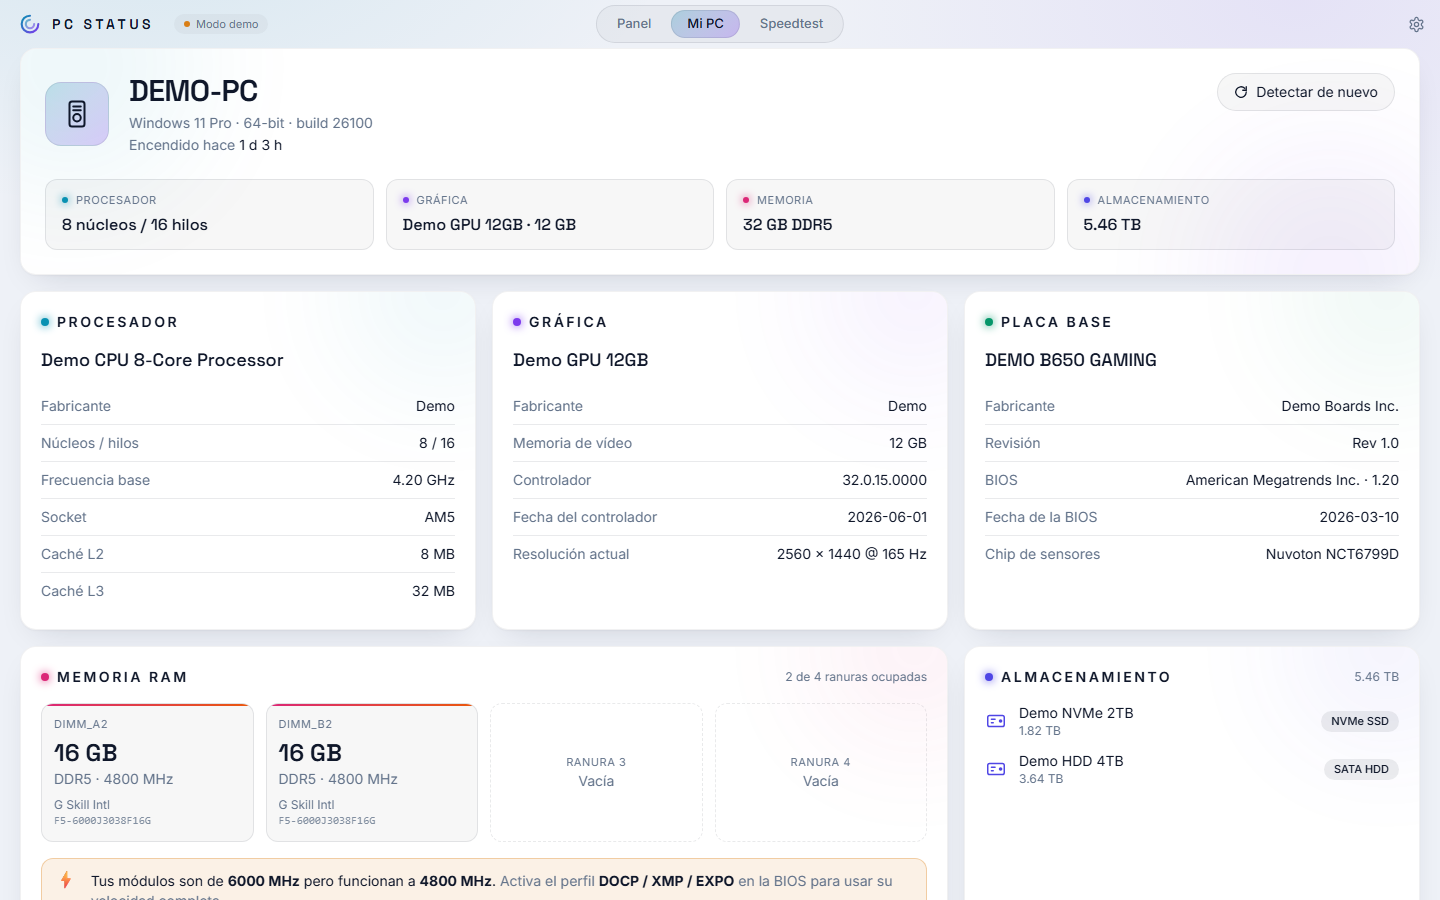
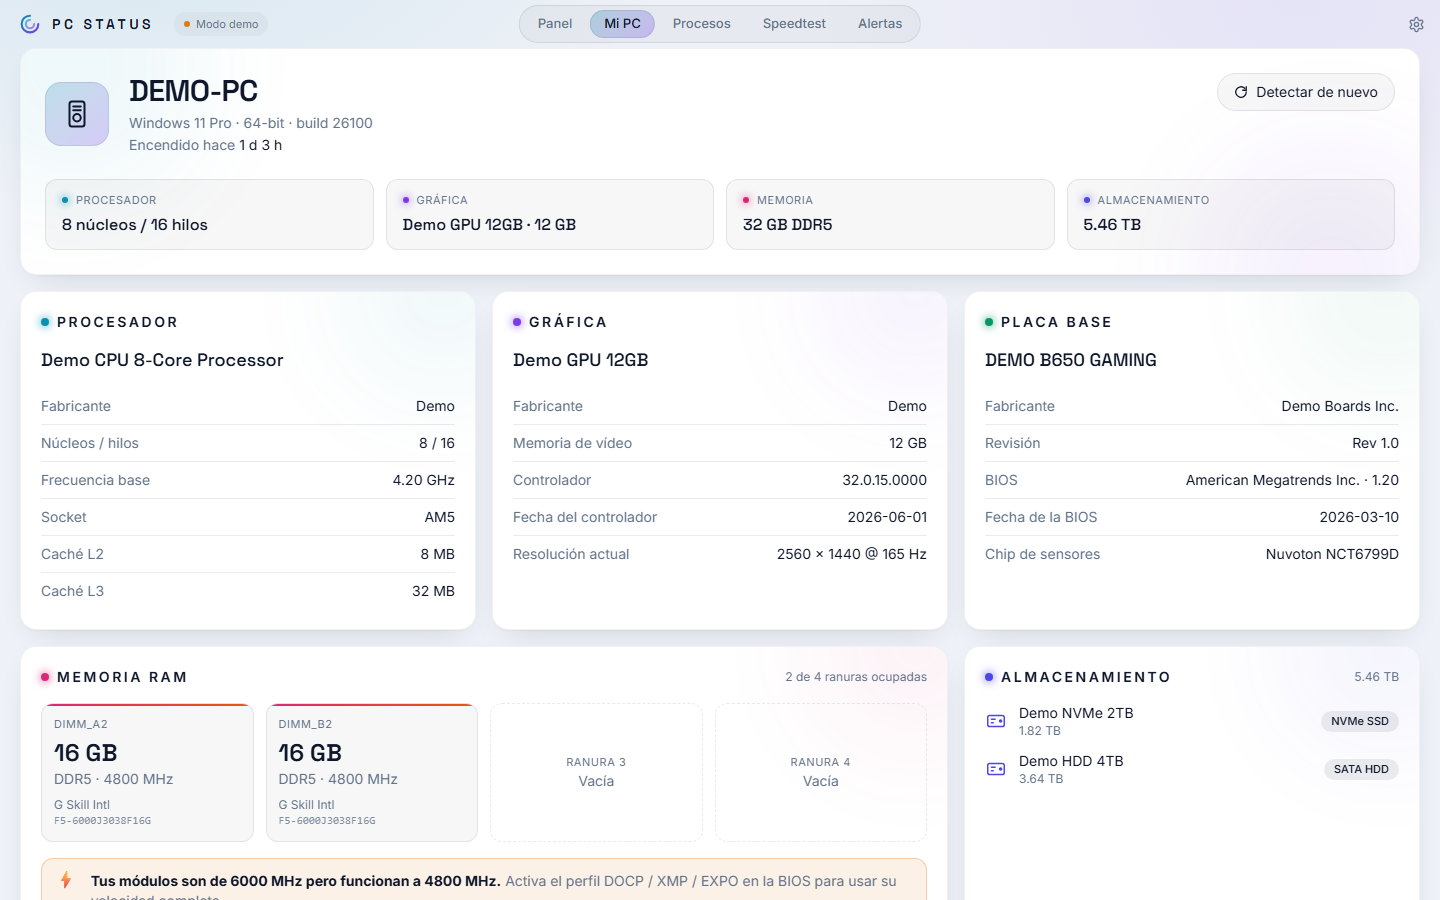
Versión 0.2.0: README con Procesos, Alertas e idiomas y capturas nuevas

Changed region(s): [[0.0625, 0.9644, 0.625, 0.9956], [0.375, 0.0, 0.625, 0.0622]]

diff --git a/README.md b/README.md
@@ -1,6 +1,6 @@
 # PC Status
 
-**Monitor de hardware para Windows con diseño propio**, inspirado en programas como NZXT CAM pero totalmente personalizable: medidores animados en tiempo real, inventario completo del PC, prueba de velocidad de internet y 6 temas con estilos distintos.
+**Monitor de hardware para Windows con diseño propio**, inspirado en programas como NZXT CAM pero totalmente personalizable: medidores animados en tiempo real, inventario completo del PC, procesos que se pueden finalizar, alertas de temperatura con notificaciones, prueba de velocidad de internet, 6 temas con estilos distintos y 9 idiomas.
 
 Hecho con **Tauri 2 (Rust)**, **React + Tailwind + Motion** y un pequeño proceso en **.NET con LibreHardwareMonitor** para leer los sensores.
 
@@ -36,7 +36,8 @@ No necesitas instalar nada más: el instalador incluye todo (la app, el lector d
 | | |
 |---|---|
 | [![Panel](docs/screenshots/panel.png)](#panel-monitoreo-en-tiempo-real) **📊 Panel**: CPU, GPU, RAM, núcleos, red, ventiladores y discos en tiempo real, con medidores animados y gráficas de 60 s. | [![Mi PC](docs/screenshots/mi-pc.png)](#mi-pc-inventario-de-hardware) **🖥 Mi PC**: inventario completo del hardware: procesador, gráfica, placa y BIOS, RAM por ranura, discos, pantallas, red y audio. |
-| [![Speedtest](docs/screenshots/speedtest.png)](#speedtest-velocidad-de-internet) **🚀 Speedtest**: ping, jitter, descarga y subida con velocímetro, menú de tipo y duración, valoración e historial. | [![Ajustes](docs/screenshots/ajustes.png)](#ajustes-y-temas) **🎨 Temas**: 6 estilos distintos (Neón, Cyberpunk, Minimal, Aurora, Terminal y Claro), con brillo ajustable y opción sin animaciones. |
+| [![Procesos](docs/screenshots/procesos.png)](#procesos-qué-consume-recursos) **⚙ Procesos**: qué aplicaciones consumen CPU, RAM y disco, con buscador y botón para finalizarlas. | [![Alertas](docs/screenshots/alertas.png)](#alertas-de-temperatura) **🔔 Alertas**: notificación de Windows si la CPU, la GPU o un disco se calientan demasiado, con historial y punto rojo en las nuevas. |
+| [![Speedtest](docs/screenshots/speedtest.png)](#speedtest-velocidad-de-internet) **🚀 Speedtest**: ping, jitter, descarga y subida con velocímetro, menú de tipo y duración, valoración e historial. | [![Ajustes](docs/screenshots/ajustes.png)](#ajustes-temas-e-idiomas) **🎨 Temas e idiomas**: 6 estilos distintos y 9 idiomas, con brillo ajustable y opción sin animaciones. |
 
 ---
 
@@ -46,8 +47,10 @@ No necesitas instalar nada más: el instalador incluye todo (la app, el lector d
 - [Funciones](#funciones)
   - [Panel: monitoreo en tiempo real](#panel-monitoreo-en-tiempo-real)
   - [Mi PC: inventario de hardware](#mi-pc-inventario-de-hardware)
+  - [Procesos: qué consume recursos](#procesos-qué-consume-recursos)
+  - [Alertas de temperatura](#alertas-de-temperatura)
   - [Speedtest: velocidad de internet](#speedtest-velocidad-de-internet)
-  - [Ajustes y temas](#ajustes-y-temas)
+  - [Ajustes, temas e idiomas](#ajustes-temas-e-idiomas)
 - [Cómo funciona por dentro](#cómo-funciona-por-dentro)
 - [Instalación y uso](#instalación-y-uso)
 - [Personalizar](#personalizar)
@@ -93,6 +96,39 @@ Detecta **todos los componentes** del equipo en menos de un segundo:
 
 El botón **"Detectar de nuevo"** vuelve a escanear el hardware sin reiniciar la app.
 
+### Procesos: qué consume recursos
+
+![Procesos](docs/screenshots/procesos.png)
+
+Lista de **todos los procesos en ejecución**, actualizada cada 2 segundos (solo mientras la pestaña está abierta, para no gastar recursos):
+
+- **CPU** (% del procesador completo), **RAM** y **disco** (lectura + escritura por segundo), con barras para comparar de un vistazo. Los valores altos se marcan en rojo.
+- **Agrupar por aplicación**: junta todos los procesos de una app (por ejemplo las pestañas de Chrome, `×4`) y suma su consumo.
+- **Buscar** por nombre o PID y **ordenar** pulsando el título de cada columna.
+- **Finalizar**: pide confirmación indicando el nombre y cuántos procesos se cerrarán. Si la app está agrupada, cierra todos sus procesos.
+- **Protegidos**: los procesos esenciales de Windows (`svchost`, `csrss`, `explorer`, `dwm`…) y la propia PC Status no se pueden finalizar desde aquí.
+- Con el ratón encima de la tabla **el orden se congela**, para que una fila no se mueva justo cuando vas a pulsar "Finalizar".
+
+### Alertas de temperatura
+
+![Alertas](docs/screenshots/alertas.png)
+
+Si un componente se calienta más de lo recomendado, PC Status:
+
+1. Muestra una **notificación de Windows**, aunque la app esté minimizada.
+2. Guarda la alerta en la pestaña **Alertas** con un **punto rojo** al inicio mientras no la hayas visto. La pestaña también muestra un punto rojo cuando hay alertas nuevas.
+
+| Componente | Límite recomendado | Por qué |
+|---|---|---|
+| Procesador | 85 °C | la mayoría reduce su velocidad cerca de 90–95 °C |
+| Gráfica | 83 °C | límite habitual antes de que baje su frecuencia |
+| Discos | 65 °C | los SSD NVMe se protegen a partir de unos 70 °C |
+
+- Los límites se pueden **ajustar** con deslizadores y restablecer a los recomendados.
+- Una alerta salta cuando la temperatura **supera el límite más de 5 segundos** (no por picos de un instante) y **no se repite** hasta que baja 3 °C del límite.
+- Botón **"Probar notificación"** para comprobar que las notificaciones funcionan.
+- Las notificaciones o las alertas se pueden desactivar.
+
 ### Speedtest: velocidad de internet
 
 ![Speedtest](docs/screenshots/speedtest.png)
@@ -120,7 +156,7 @@ Prueba de velocidad completa con **velocímetro animado** (escala 0–1000 Mb/s 
 
 Los primeros 1,5 s de cada fase no cuentan para el resultado (es el arranque de TCP). La medición la hace **Rust**, no el navegador, para que sea precisa. La prueba sigue aunque cambies de pestaña.
 
-### Ajustes y temas
+### Ajustes, temas e idiomas
 
 El **engranaje ⚙** (arriba a la derecha) abre el panel de ajustes:
 
@@ -133,6 +169,10 @@ Cada tema cambia **colores, esquinas, intensidad del brillo, fuentes, fondo y es
 | **Cyberpunk**: amarillo y magenta, esquinas cortadas, franja lateral de color, fuente Orbitron, rejilla y líneas de CRT ![Cyberpunk](docs/screenshots/tema-cyberpunk.png) | **Terminal**: verde fósforo, todo monoespaciado, sin esquinas redondeadas y con efecto de monitor CRT ![Terminal](docs/screenshots/tema-terminal.png) |
 | **Aurora**: pasteles suaves, muy redondeado, vidrio difuminado y fondo de aurora boreal ![Aurora](docs/screenshots/tema-aurora.png) | **Claro**: fondo claro con tarjetas blancas, para el día ![Claro](docs/screenshots/tema-claro.png) |
 | **Minimal**: plano y gris, sin brillos, con un solo acento azul ![Minimal](docs/screenshots/tema-minimal.png) | **Neón** (por defecto): vidrio oscuro con brillos cian y violeta ![Neón](docs/screenshots/panel.png) |
+
+**Idiomas:** Español, English, Português, Français, Deutsch, Italiano, Русский, 中文 y 日本語. La primera vez se usa el idioma de Windows si está disponible.
+
+![PC Status en inglés con el tema Aurora](docs/screenshots/idioma-ingles.png)
 
 Además:
 - **Intensidad del brillo**: 0–200 % sobre el brillo propio del tema.
@@ -158,13 +198,18 @@ flowchart LR
     subgraph Tauri ["Rust · pc-status.exe"]
         LIB[lib.rs<br/>lanza el sidecar y<br/>reenvía los datos]
         ST[speedtest.rs<br/>prueba de velocidad]
+        PR[processes.rs<br/>procesos sysinfo]
     end
 
     subgraph UI ["React (WebView2)"]
         P[Panel]
         M[Mi PC]
         S[Speedtest]
+        PS[Procesos]
+        AL[Alertas]
     end
+
+    WIN[[Notificaciones<br/>de Windows]]
 
     CF[(Cloudflare<br/>speed.cloudflare.com)]
 
@@ -179,6 +224,9 @@ flowchart LR
     S -- "start_speedtest" --> ST
     ST <--> CF
     ST -- "evento speedtest" --> S
+    PS -- "list / kill_processes" --> PR
+    LIB -- "temperaturas" --> AL
+    AL --> WIN
 ```
 
 **¿Por qué un proceso en .NET?** En Windows, leer la temperatura real de la CPU, los ventiladores y los voltajes de la placa necesita un driver en modo kernel. La librería más completa para eso es [LibreHardwareMonitor](https://github.com/LibreHardwareMonitor/LibreHardwareMonitor) (C#) y no existe un equivalente en Rust. Por eso la app lanza un pequeño ejecutable .NET (*sidecar*) que:
@@ -187,7 +235,7 @@ flowchart LR
 2. Al arrancar (y cuando se le pide por `stdin`) genera el **inventario** usando WMI.
 3. Se cierra solo si la app principal muere (detecta el fin de `stdin`).
 
-El backend en **Rust** lanza ese proceso sin ventana, guarda el último inventario y reenvía todo a la interfaz con eventos de Tauri. La prueba de velocidad se hace directamente en Rust con `reqwest`.
+El backend en **Rust** lanza ese proceso sin ventana, guarda el último inventario y reenvía todo a la interfaz con eventos de Tauri. La prueba de velocidad se hace directamente en Rust con `reqwest`, y la lista de procesos con `sysinfo`. Las alertas se calculan en la interfaz con cada lectura de sensores y se notifican con `tauri-plugin-notification`.
 
 La **interfaz** es React dentro de WebView2: los temas son variables CSS (`--color-*`, `--radius`, `--glow`, `--card-*`, `--app-bg`...) que se cambian en caliente.
 
@@ -231,10 +279,13 @@ Con `npm run dev` la interfaz funciona en cualquier navegador con datos simulado
 
 | Parámetro | Efecto |
 |---|---|
-| `?view=mypc` / `?view=speedtest` | abre esa pestaña |
+| `?view=mypc` / `processes` / `speedtest` / `alerts` | abre esa pestaña |
 | `?theme=cyberpunk` | fuerza un tema sin guardarlo (`neon`, `cyberpunk`, `minimal`, `aurora`, `terminal`, `light`) |
 | `?settings` | abre el panel de ajustes |
 | `?autostart` | lanza un speedtest simulado |
+| `?lang=en` | fuerza un idioma (`es`, `en`, `pt`, `fr`, `de`, `it`, `ru`, `zh`, `ja`) |
+| `?hot` | simula una CPU caliente para ver las alertas |
+| `?nopawnio` | simula que falta el driver PawnIO |
 
 ---
 
@@ -253,12 +304,13 @@ Con `npm run dev` la interfaz funciona en cualquier navegador con datos simulado
 ```
 ├── src/                      Interfaz (React + Tailwind + Motion)
 │   ├── App.tsx               pestañas, ajustes y vista activa
-│   ├── views/                Dashboard · MyPC · Speedtest
+│   ├── views/                Dashboard · MyPC · Processes · Speedtest · Alerts
 │   ├── components/           medidores, gráficas, tarjetas, barra de título, ajustes
-│   └── lib/                  datos de sensores, inventario, speedtest, temas, demo
+│   └── lib/                  sensores, inventario, procesos, alertas, speedtest, temas, idiomas (i18n), demo
 ├── src-tauri/                App de escritorio (Rust / Tauri 2)
 │   ├── src/lib.rs            lanza el sidecar, eventos y comandos
 │   ├── src/speedtest.rs      motor de la prueba de velocidad
+│   ├── src/processes.rs      lista de procesos y finalizar (sysinfo)
 │   └── tauri.conf.json       ventana sin bordes, sidecar, instalador
 ├── sensors/                  Sidecar .NET (LibreHardwareMonitor + WMI)
 │   ├── Program.cs            lectura de sensores cada segundo
@@ -272,7 +324,7 @@ Con `npm run dev` la interfaz funciona en cualquier navegador con datos simulado
 ## Preguntas frecuentes
 
 **¿Por qué no veo la temperatura de la CPU?**
-Ejecuta la app como administrador. Algunas versiones de LibreHardwareMonitor también necesitan el driver [PawnIO](https://pawnio.eu/) instalado.
+Hacen falta dos cosas: ejecutar la app como **administrador** y tener el driver **[PawnIO](https://pawnio.eu/)**, que LibreHardwareMonitor usa desde la versión 0.9.5 para leer temperaturas, ventiladores y voltajes. Si falta, PC Status muestra un aviso con el botón **"Instalar PawnIO"** (incluye el instalador oficial de namazso, verificado por SHA-256); Windows te pedirá permiso y los sensores se reinician solos al terminar.
 
 **¿Puedo usarlo junto a NZXT CAM / Armoury Crate / iCUE?**
 Sí, pero si varios programas leen el chip de la placa a la vez, algún valor puede salir raro. Cierra los otros si ves lecturas extrañas.
